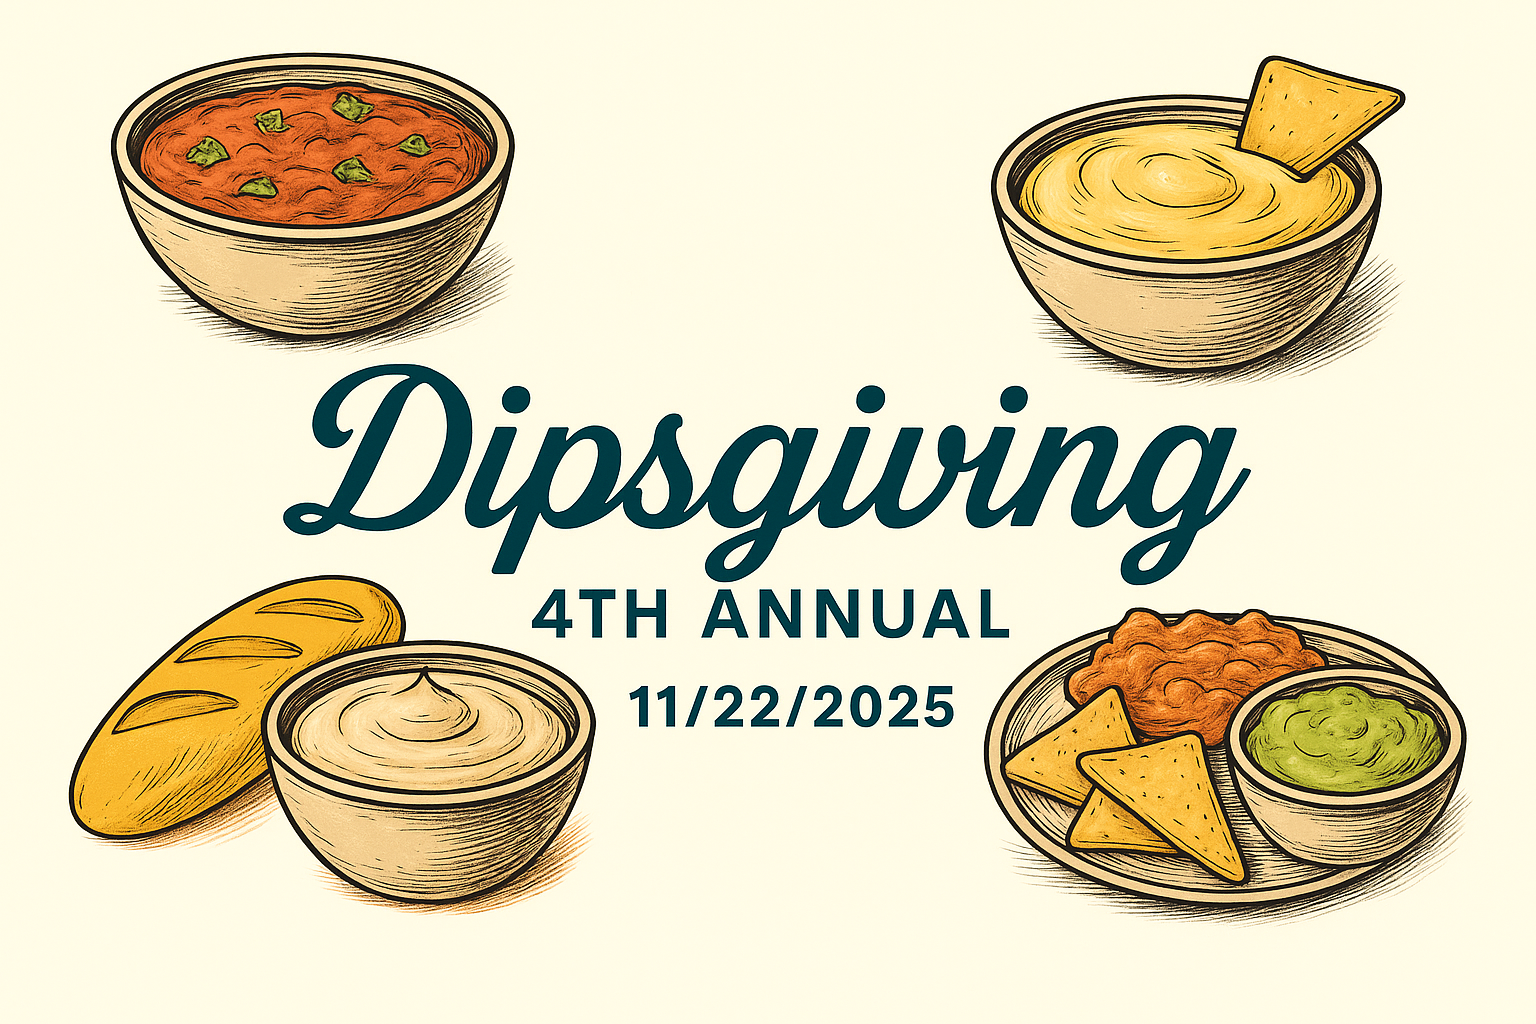
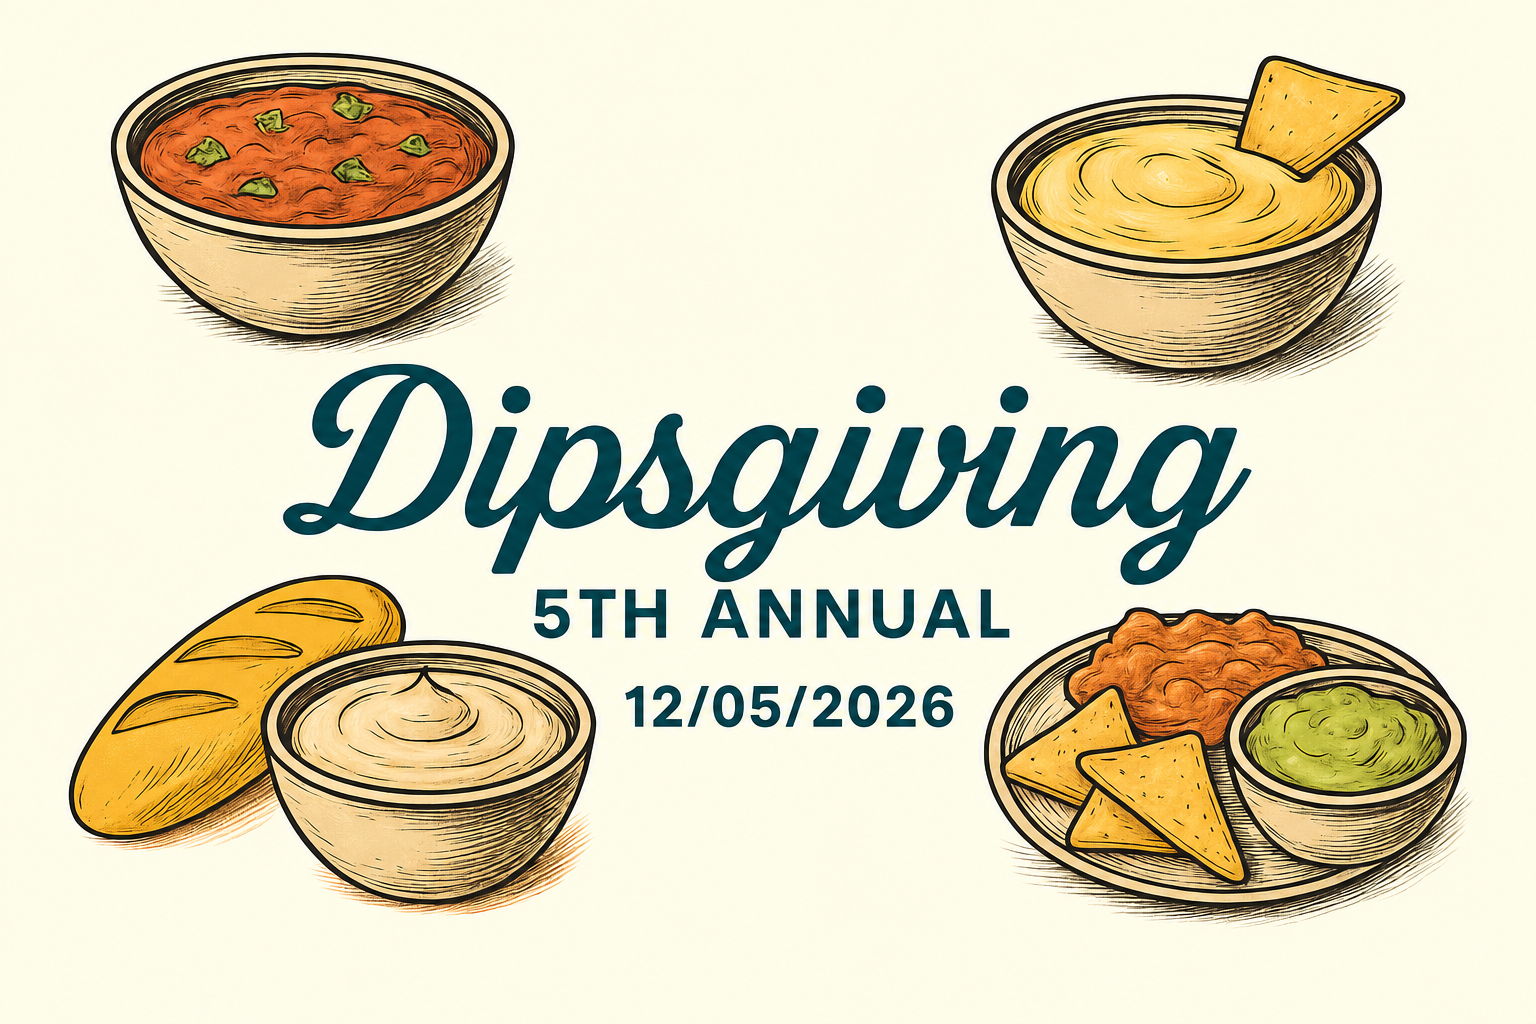
Update share preview for fifth annual Dipsgiving

diff --git a/src/app/layout.tsx b/src/app/layout.tsx
@@ -65,10 +65,10 @@ export const metadata: Metadata = {
     siteName: "Dipsgiving",
     images: [
       {
-        url: "/og-image.png",
-        width: 1200,
-        height: 630,
-        alt: "Dipsgiving — The Ultimate Dip Showdown",
+        url: "/og-image-5th-2026.png",
+        width: 1536,
+        height: 1024,
+        alt: "5th Annual Dipsgiving — December 5, 2026",
       },
     ],
     locale: "en_US",
@@ -78,7 +78,7 @@ export const metadata: Metadata = {
     card: "summary_large_image",
     title: "Dipsgiving",
     description: "Celebrate the art of dip — one scoop at a time.",
-    images: ["/og-image.png"],
+    images: ["/og-image-5th-2026.png"],
   },
 };
 

diff --git a/docs/share-preview-image.md b/docs/share-preview-image.md
@@ -1,0 +1,22 @@
+# Updated text-message preview image
+
+Updated the existing social preview with the built-in `image_gen.imagegen` tool in edit mode. The approved output was visually inspected: `5TH ANNUAL` and `12/05/2026` are correct, with the Dipsgiving lettering and food illustration preserved.
+
+Project assets:
+
+- `public/og-image-5th-2026.png` — new versioned image used by Open Graph and Twitter metadata.
+- `public/og-image.png` — same updated artwork retained at the legacy image URL.
+
+Both PNGs are 1536 × 1024, matching the updated Open Graph dimensions. The new URL gives crawlers a fresh image identity when they read the page's updated metadata. Previously sent message previews may retain a cached thumbnail; the website cannot force a messaging app to replace those already cached cards.
+
+Only the two images, share metadata in `src/app/layout.tsx`, and this note are included. The separate navigation-development branch and the static testing snapshot are unchanged.
+
+Final image-edit prompt:
+
+```text
+Use case: text-localization.
+Asset type: existing Dipsgiving text-message / social-link preview image.
+Input image: the supplied local og-image.png is the edit target.
+Primary request: make exactly two text corrections in the existing image: replace "4TH ANNUAL" with "5TH ANNUAL", and replace "11/22/2025" with "12/05/2026".
+Constraints: Preserve the word "Dipsgiving" exactly, the existing cream background, teal lettering, font styles, text positions, proportions, arrangement, colors, all hand-drawn bowls/dips/chips, borders, shadows, and overall composition. Keep the original landscape aspect ratio and entire uncropped image. No added elements or new text. No redesign. Keep the same visual typography, alignment, sizing and spacing for both replacement text lines. Output an opaque image, not transparent.
+```
